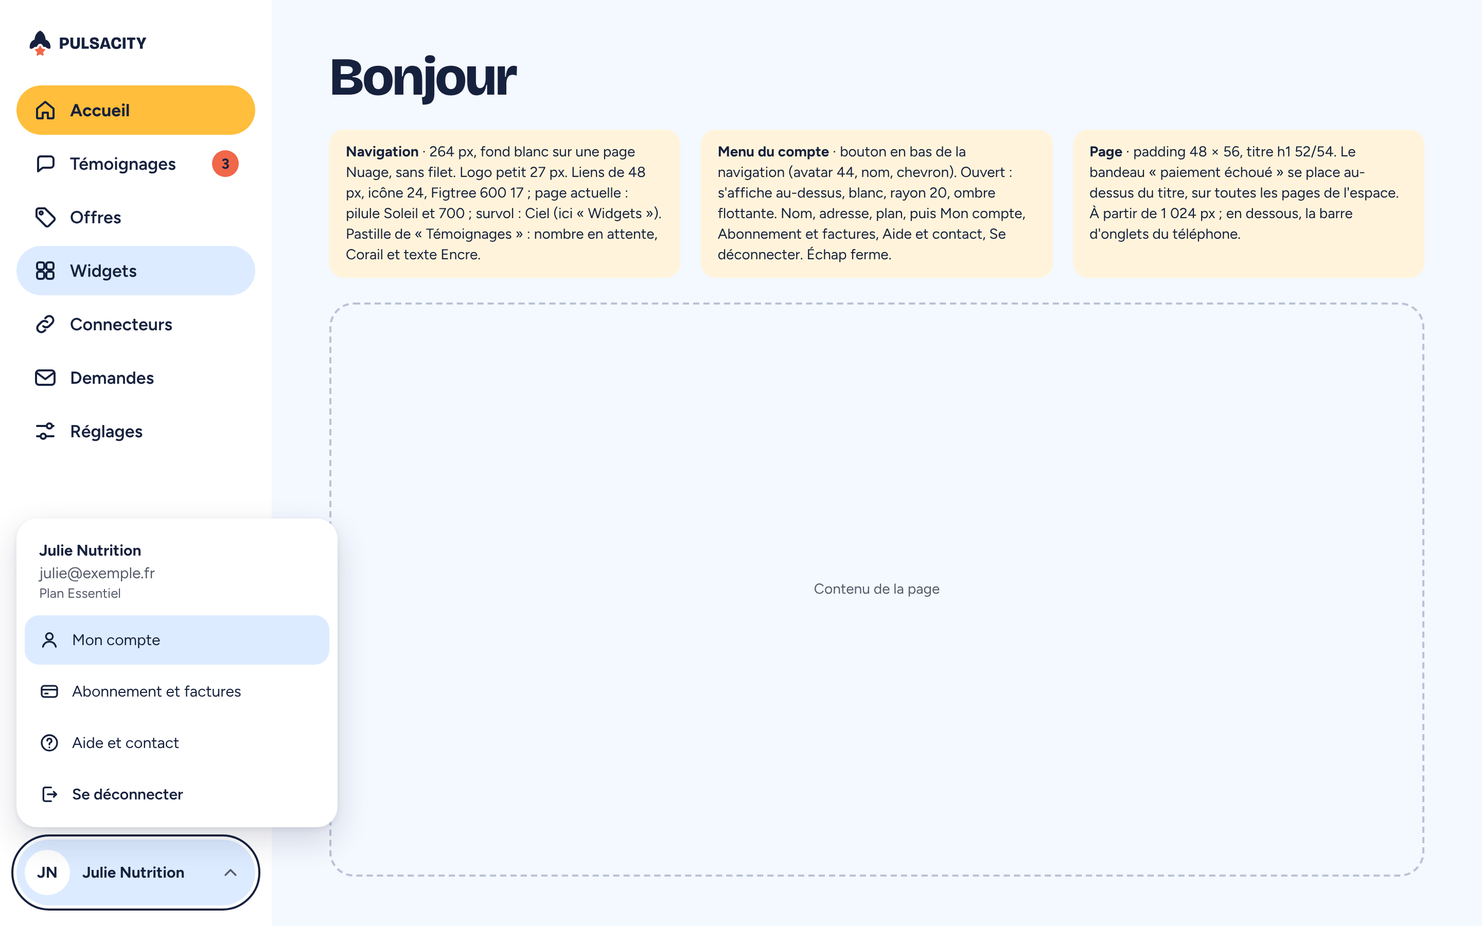
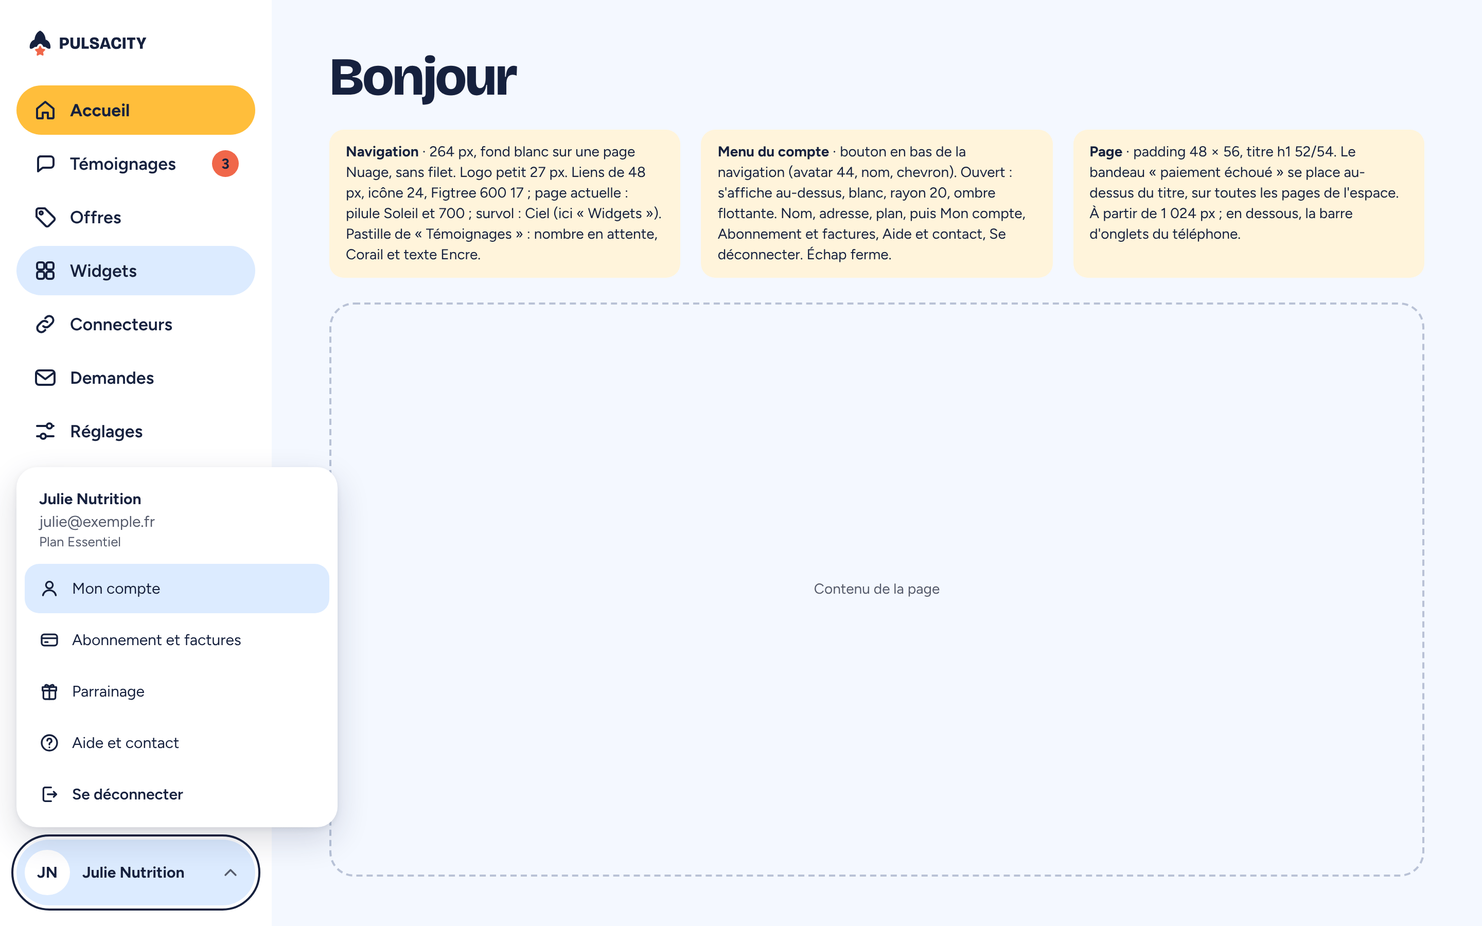
Store the 3.3 mockups and the charter they update
The ZIP of prompt 3.3 (screens to create) goes into docs-internes/design-v2:
its PNG beside those of 3.2, its charter replacing charte.md (gauge,
foldable question, tool card, monogram, added badges, numbered steps, and
the icons gift, pause, external, file, monitor and phone), its index
appended to INDEX.md. The two shell plates it changes keep their names.

Claude-Session: https://claude.ai/code/session_01JVU7uWR1rbwWpp9uAc98oP

Changed region(s): [[0.0, 0.5289, 0.25, 0.7778]]

diff --git a/docs-internes/design-v2/maquettes/INDEX.md b/docs-internes/design-v2/maquettes/INDEX.md
@@ -74,3 +74,158 @@ Modifiés par rapport aux maquettes de la direction B (3.1), mêmes écrans, pou
 - Page de collecte : « Julie Nutrition lira chaque mot. Une note et quelques mots suffisent. » (au lieu de « Comptez moins d'une minute. »).
 - Mur : note d'exemple 4,7/5 ; « Exemple, avis fictifs ».
 - E-mail de demande : bouton « Donner mon avis » (au lieu de « Donner mon avis (1 minute) ») ; relance : objet « Camille, un mot sur Programme 30 jours ? » et texte sans « une minute » (voir `charte-v2.md`, E-mails).
+
+
+## Écrans à créer — prompt 3.3 (rangés au lot 4.3, 14 octobre 2026)
+
+> Rangement dans le dépôt : le ZIP du prompt 3.3 (`PULSACITY-v2-ecrans-3-3.zip`) est rangé tel quel. Ses PNG sont dans ce dossier, à côté de ceux de 3.2 ; sa `charte-v2.md`, mise à jour en 3.3 (composants et icônes ajoutés), remplace `../charte.md`. Les deux planches de la coque qu'il modifie gardent leur nom et remplacent celles de 3.2. Les lots 4.3 (Réglages, Mon compte), 4.4 (Aide et contact), 4.5 (Abonnement et factures), 4.12 (parrainage) et les lots du catalogue s'en servent.
+
+Tous les fichiers listés ici sont dans `maquettes/` : PNG à l'échelle 2x, une planche ou un état par fichier, nommés `v2-<famille>-<écran>-<desktop ou mobile>-<numéro>-<état>.png`. Chaque écran est dessiné à 1440 px et à 360 px, avec la charte v2, dans la coque de l'espace (ou celle du site pour Aide et contact, les pages publiques et les guides). Les valeurs sont dans `charte-v2.md` (mise à jour : composants et icônes ajoutés en 3.3). Canvas « PULSACITY v2 », pages « Réglages », « Mon compte », « Abonnement et factures », « Aide et contact », « Connecteurs », « Parrainage ».
+
+
+### 8.1 — Réglages (`/app/reglages`)
+| Fichier | Planche · état |
+| --- | --- |
+| v2-espace-reglages-desktop-01-repos.png | Réglages · 1440 · repos |
+| v2-espace-reglages-mobile-01-repos.png | Réglages · 360 · repos |
+| v2-espace-reglages-desktop-02-erreurs.png | Réglages · 1440 · erreurs |
+| v2-espace-reglages-mobile-02-erreurs.png | Réglages · 360 · erreurs |
+| v2-espace-reglages-desktop-03-enregistre.png | Réglages · 1440 · enregistre |
+| v2-espace-reglages-mobile-03-enregistre.png | Réglages · 360 · enregistre |
+| v2-espace-reglages-desktop-04-apercu-email.png | Réglages · 1440 · aperçu de l'e-mail |
+| v2-espace-reglages-mobile-04-apercu-email.png | Réglages · 360 · aperçu de l'e-mail |
+
+### 8.2 — Mon compte (`/app/compte`) et « Votre espace est supprimé »
+| Fichier | Planche · état |
+| --- | --- |
+| v2-espace-compte-desktop-01-repos.png | Mon compte · 1440 · repos |
+| v2-espace-compte-mobile-01-repos.png | Mon compte · 360 · repos |
+| v2-espace-compte-desktop-02-nouvelle-adresse-erreur.png | Mon compte · 1440 · nouvelle-adresse-erreur |
+| v2-espace-compte-mobile-02-nouvelle-adresse-erreur.png | Mon compte · 360 · nouvelle-adresse-erreur |
+| v2-espace-compte-desktop-03-lien-envoye.png | Mon compte · 1440 · lien-envoye |
+| v2-espace-compte-mobile-03-lien-envoye.png | Mon compte · 360 · lien-envoye |
+| v2-espace-compte-desktop-04-export-en-preparation.png | Mon compte · 1440 · export-en-preparation |
+| v2-espace-compte-mobile-04-export-en-preparation.png | Mon compte · 360 · export-en-preparation |
+| v2-espace-compte-desktop-05-export-pret.png | Mon compte · 1440 · export-pret |
+| v2-espace-compte-mobile-05-export-pret.png | Mon compte · 360 · export-pret |
+| v2-espace-compte-desktop-06-export-echec.png | Mon compte · 1440 · export-echec |
+| v2-espace-compte-mobile-06-export-echec.png | Mon compte · 360 · export-echec |
+| v2-espace-compte-desktop-07-suppression-confirmation.png | Mon compte · 1440 · suppression |
+| v2-espace-compte-mobile-07-suppression-confirmation.png | Mon compte · 360 · suppression |
+| v2-site-espace-supprime-desktop-01-repos.png | Votre espace est supprimé · 1440 |
+| v2-site-espace-supprime-mobile-01-repos.png | Votre espace est supprimé · 360 |
+
+### 8.3 — Abonnement et factures (`/app/facturation`), bandeau dans l'espace, widgets en pause
+| Fichier | Planche · état |
+| --- | --- |
+| v2-espace-abonnement-desktop-01-gratuit-consommation.png | Abonnement · 1440 · gratuit-consommation |
+| v2-espace-abonnement-mobile-01-gratuit-consommation.png | Abonnement · 360 · gratuit-consommation |
+| v2-espace-abonnement-desktop-02-essentiel-mensuel-prix-de-lancement.png | Abonnement · 1440 · essentiel-mensuel-prix-de-lancement |
+| v2-espace-abonnement-mobile-02-essentiel-mensuel-prix-de-lancement.png | Abonnement · 360 · essentiel-mensuel-prix-de-lancement |
+| v2-espace-abonnement-desktop-03-pro-annuel.png | Abonnement · 1440 · pro-annuel |
+| v2-espace-abonnement-mobile-03-pro-annuel.png | Abonnement · 360 · pro-annuel |
+| v2-espace-abonnement-desktop-04-beta-testeur.png | Abonnement · 1440 · beta-testeur |
+| v2-espace-abonnement-mobile-04-beta-testeur.png | Abonnement · 360 · beta-testeur |
+| v2-espace-abonnement-desktop-05-paiement-reussi.png | Abonnement · 1440 · paiement-reussi |
+| v2-espace-abonnement-mobile-05-paiement-reussi.png | Abonnement · 360 · paiement-reussi |
+| v2-espace-abonnement-desktop-06-paiement-en-cours.png | Abonnement · 1440 · paiement-en-cours |
+| v2-espace-abonnement-mobile-06-paiement-en-cours.png | Abonnement · 360 · paiement-en-cours |
+| v2-espace-abonnement-desktop-07-paiement-abandonne.png | Abonnement · 1440 · paiement-abandonne |
+| v2-espace-abonnement-mobile-07-paiement-abandonne.png | Abonnement · 360 · paiement-abandonne |
+| v2-espace-abonnement-desktop-08-paiement-echoue.png | Abonnement · 1440 · paiement-echoue |
+| v2-espace-abonnement-mobile-08-paiement-echoue.png | Abonnement · 360 · paiement-echoue |
+| v2-espace-abonnement-desktop-09-resiliation-programmee.png | Abonnement · 1440 · resiliation-programmee |
+| v2-espace-abonnement-mobile-09-resiliation-programmee.png | Abonnement · 360 · resiliation-programmee |
+| v2-espace-abonnement-desktop-10-plan-inferieur-programme.png | Abonnement · 1440 · plan-inferieur-programme |
+| v2-espace-abonnement-mobile-10-plan-inferieur-programme.png | Abonnement · 360 · plan-inferieur-programme |
+| v2-espace-abonnement-desktop-11-retour-au-gratuit.png | Abonnement · 1440 · retour-au-gratuit |
+| v2-espace-abonnement-mobile-11-retour-au-gratuit.png | Abonnement · 360 · retour-au-gratuit |
+| v2-espace-accueil-desktop-01-bandeau-paiement-echoue.png | Accueil · 1440 · bandeau paiement échoué |
+| v2-espace-accueil-mobile-01-bandeau-paiement-echoue.png | Accueil · 360 · bandeau paiement échoué |
+| v2-espace-widgets-desktop-01-retour-au-gratuit.png | Widgets · 1440 · retour au Gratuit |
+| v2-espace-widgets-mobile-01-retour-au-gratuit.png | Widgets · 360 · retour au Gratuit |
+
+### 8.4 — Aide et contact (`/aide`)
+| Fichier | Planche · état |
+| --- | --- |
+| v2-site-aide-desktop-01-repos.png | Aide et contact · 1440 · repos |
+| v2-site-aide-mobile-01-repos.png | Aide et contact · 360 · repos |
+| v2-site-aide-desktop-02-connecte.png | Aide et contact · 1440 · connecte |
+| v2-site-aide-mobile-02-connecte.png | Aide et contact · 360 · connecte |
+| v2-site-aide-desktop-03-erreurs.png | Aide et contact · 1440 · erreurs |
+| v2-site-aide-mobile-03-erreurs.png | Aide et contact · 360 · erreurs |
+| v2-site-aide-desktop-04-envoye.png | Aide et contact · 1440 · envoye |
+| v2-site-aide-mobile-04-envoye.png | Aide et contact · 360 · envoye |
+| v2-site-aide-desktop-05-trop-d-envois.png | Aide et contact · 1440 · trop-d-envois |
+| v2-site-aide-mobile-05-trop-d-envois.png | Aide et contact · 360 · trop-d-envois |
+
+### 8.5 — Catalogue des connecteurs
+| Fichier | Planche · état |
+| --- | --- |
+| v2-site-integrations-desktop-01-catalogue.png | Intégrations · 1440 · catalogue |
+| v2-site-integrations-mobile-01-catalogue.png | Intégrations · 360 · catalogue |
+| v2-site-integrations-desktop-02-filtre-famille.png | Intégrations · 1440 · filtre par famille |
+| v2-site-integrations-mobile-02-filtre-famille.png | Intégrations · 360 · filtre par famille |
+| v2-site-integrations-desktop-03-dites-nous-quel-outil.png | Intégrations · 1440 · Dites-nous quel outil |
+| v2-site-integrations-mobile-03-dites-nous-quel-outil.png | Intégrations · 360 · Dites-nous quel outil |
+| v2-espace-connecteurs-desktop-01-catalogue.png | Connecteurs · 1440 · catalogue |
+| v2-espace-connecteurs-mobile-01-catalogue.png | Connecteurs · 360 · catalogue |
+| v2-espace-connecteurs-desktop-02-dites-nous-quel-outil.png | Connecteurs · 1440 · Dites-nous quel outil |
+| v2-espace-connecteurs-mobile-02-dites-nous-quel-outil.png | Connecteurs · 360 · Dites-nous quel outil |
+| v2-site-integration-bientot-desktop-01-calendly.png | Calendly (Bientôt) · 1440 |
+| v2-site-integration-bientot-mobile-01-calendly.png | Calendly (Bientôt) · 360 |
+| v2-site-integration-bientot-desktop-02-me-prevenir-etats.png | Calendly · 1440 · Me prévenir |
+| v2-site-integration-bientot-mobile-02-me-prevenir-etats.png | Calendly · 360 · Me prévenir |
+| v2-site-connecteur-universel-desktop-01-repos.png | Connecteur universel (public) · 1440 |
+| v2-site-connecteur-universel-mobile-01-repos.png | Connecteur universel (public) · 360 |
+| v2-espace-connecteur-universel-desktop-01-en-attente.png | Connecteur universel (espace) · 1440 · en-attente |
+| v2-espace-connecteur-universel-mobile-01-en-attente.png | Connecteur universel (espace) · 360 · en-attente |
+| v2-espace-connecteur-universel-desktop-02-connecte-offres-a-associer.png | Connecteur universel (espace) · 1440 · connecte-offres-a-associer |
+| v2-espace-connecteur-universel-mobile-02-connecte-offres-a-associer.png | Connecteur universel (espace) · 360 · connecte-offres-a-associer |
+| v2-espace-connecteur-universel-desktop-03-probleme.png | Connecteur universel (espace) · 1440 · probleme |
+| v2-espace-connecteur-universel-mobile-03-probleme.png | Connecteur universel (espace) · 360 · probleme |
+| v2-site-guide-zapier-desktop-01-repos.png | Guide zapier · 1440 |
+| v2-site-guide-zapier-mobile-01-repos.png | Guide zapier · 360 |
+| v2-site-guide-make-desktop-01-repos.png | Guide make · 1440 |
+| v2-site-guide-make-mobile-01-repos.png | Guide make · 360 |
+| v2-site-guide-n8n-desktop-01-repos.png | Guide n8n · 1440 |
+| v2-site-guide-n8n-mobile-01-repos.png | Guide n8n · 360 |
+| v2-site-guide-podia-desktop-01-repos.png | Guide podia · 1440 |
+| v2-site-guide-podia-mobile-01-repos.png | Guide podia · 360 |
+| v2-site-compatible-avec-votre-site-desktop-01-liste.png | Compatible avec votre site · 1440 |
+| v2-site-compatible-avec-votre-site-mobile-01-liste.png | Compatible avec votre site · 360 |
+
+### Parrainage (`/app/parrainage`)
+| Fichier | Planche · état |
+| --- | --- |
+| v2-espace-parrainage-desktop-01-avec-filleuls.png | Parrainage · 1440 · avec-filleuls |
+| v2-espace-parrainage-mobile-01-avec-filleuls.png | Parrainage · 360 · avec-filleuls |
+| v2-espace-parrainage-desktop-02-vide.png | Parrainage · 1440 · vide |
+| v2-espace-parrainage-mobile-02-vide.png | Parrainage · 360 · vide |
+| v2-espace-parrainage-desktop-03-lien-copie.png | Parrainage · 1440 · lien-copie |
+| v2-espace-parrainage-mobile-03-lien-copie.png | Parrainage · 360 · lien-copie |
+
+### Modifiés dans ce lot, mêmes noms (planches de 3.2)
+| Fichier | Changement |
+| --- | --- |
+| v2-espace-coque-desktop-01-menu-compte-ouvert.png | « Parrainage » ajouté au menu du compte. |
+| v2-espace-coque-mobile-02-page-plus.png | « Parrainage » ajouté à « Votre compte ». |
+
+### Choix de Design faits dans ce lot (à valider)
+- **Mon compte** : une page à part, `/app/compte`. Réglages parle de l'espace ; Mon compte, de la personne.
+- **Adresse de la page de collecte** : modifiable, avec l'avertissement « l'ancienne adresse cesse de marcher » et la proposition d'une adresse libre si elle est prise.
+- **Notifications** : un interrupteur « Recevoir l'e-mail « Nouveau témoignage » », activé par défaut.
+- **Contrepartie** : la case affiche la mention « Certains clients ont reçu une contrepartie pour leur avis. » sous les widgets et sur « À propos de ces avis ».
+- **Paiement et factures** : le portail Stripe seul, sans liste de factures dans la page.
+- **Changer de plan** : trois colonnes compactes avec la ligne du prix de lancement (place réservée), le plan actuel marqué « Votre plan ». Règles écrites sous les colonnes (supérieur au prorata, inférieur à la fin de la période).
+- **Retour au Gratuit** : le widget le plus ancien reste affiché ; « Afficher celui-ci à la place » pour en choisir un autre. Les widgets en pause gardent leur code et ne laissent aucun vide.
+- **Catalogue** : un filtre par famille (pastilles), les noms seuls avec un monogramme, sans logo de marque. Podia, Zapier, Make et n8n restent « Bientôt » comme connecteurs, avec « Déjà possible avec le connecteur universel : voir le guide ».
+- **Compatible avec votre site** : une section de `/integrations` (`#compatible`), avec quatre statuts : Oui, Selon la formule, Pas encore testé, Non.
+- **Connecteur universel** : même page que Systeme.io (voyant, 3 étapes, offres à associer, événements) ; une vente sans adresse e-mail est « gardée de côté », à rejouer.
+- **Guide Make** : il passe par l'application PULSACITY privée pour Make (connecteurs.md, vague 1), d'où le bouton « Ajouter PULSACITY à Make » à l'étape 2 du connecteur universel.
+- **Parrainage** : page `/app/parrainage`, lien `pulsacity.com/p/<espace>` (format à confirmer), ouverte depuis le menu du compte, « Plus » et Abonnement et factures. Le mois offert : passage à Essentiel pendant un mois au plan Gratuit, prélèvement décalé d'un mois si l'on est déjà abonné (règle à confirmer).
+
+### Textes à surveiller
+- Guide Zapier : le nom de l'application « Webhooks by Zapier » est cité tel qu'il s'affiche dans Zapier ; c'est le seul endroit où le mot apparaît. Les guides citent aussi les libellés des outils (« URL », « HTTP Request », « Send Body », « Run once »).
+- Les messages « Patientez quelques minutes, puis réessayez » (trop d'envois) sont repris de la v1 : ce ne sont pas des durées d'installation.
+- « Nous vous répondons sous deux jours ouvrés » vient de l'inventaire (8.4).

diff --git a/docs-internes/design-v2/charte.md b/docs-internes/design-v2/charte.md
@@ -154,6 +154,13 @@ Aucun filet entre les sections, ni entre les lignes d'une liste ou d'un tableau,
 **Chargement de marque** (ChargementMarque) — seulement à l'ouverture de l'espace et si l'attente dépasse 1 s : symbole normal 48 centré, « Ouverture de votre espace… » 17/26 600, « Cela prend quelques secondes la première fois. » 15/22 Gris, fond Nuage, role="status". Disparaît sans animation.
 **Colonnes de prix** (Tarifs et accueil) — titre « Tarifs », dessous : « Prix finaux : rien ne s'ajoute au paiement. » Bascule Mensuel / Annuel + « Annuel : 2 mois offerts ». Trois colonnes de même structure, rangée par rangée : « Recommandé » (15/20 700, 20 px réservés partout), nom (h2), prix en chiffre 60/60 + « par mois » / « par an » / « pour toujours » 15 Gris, ligne de lancement 15/22 Gris sur 44 px réservés (vide sous Gratuit), phrase 17/26, bouton dans une zone de 56, liste à coches Pousse 20. Essentiel : fond Ciel, bouton principal « Choisir Essentiel ». Gratuit et Pro : fond Blanc, bouton secondaire (« Créer mon espace gratuit », « Choisir Pro »). radius-panel, padding 32 28. Prix : Gratuit 0 € ; Essentiel 9,99 € par mois ou 99 € par an ; Pro 19,99 € par mois ou 199 € par an. Ligne de lancement : « Prix de lancement, gardé à vie, pour les 100 premiers abonnés. Ensuite, 14,99 € par mois. » (Pro : 24,99 € par mois ; Annuel : « Ensuite, 149 € par an. » et « Ensuite, 249 € par an. »). Ni prix barré, ni compteur, ni « TVA comprise », ni « HT ». Téléphone : colonnes empilées, liste avant le bouton, pas de place réservée.
 **Navigation** — Site, ordinateur : en-tête 88, fond Blanc, logo horizontal 32 (lien « PULSACITY, accueil »), liens Intégrations · Tarifs · Guides · Se connecter (28 d'écart), puis « Créer mon espace gratuit » secondaire ; position sticky, shadow-float après 8 px de défilement. Site, téléphone : en-tête 64, logo petit 24, bouton 44 « Ouvrir le menu » / « Fermer le menu » (aria-expanded) ; menu ouvert : panneau Blanc sous l'en-tête, radius 0 0 24 24, padding 8 20 24, lignes de 56 (radius-field, chevron 20 Gris, page actuelle sur Ciel 700), puis « Créer mon espace gratuit » principal pleine largeur ; voile sur la page, défilement bloqué. Pied de page : fond Encre, padding 56 80 48 (40 20 32 au téléphone), logo sombre 32, liens Mentions légales · CGU · CGV · Confidentialité · Cookies · Contact en Blanc 15/22 soulignés (zone de 44 ; grille de 2 colonnes au téléphone), « © 2026 PULSACITY ». Espace, ordinateur : colonne 264, fond Blanc sur page Nuage, padding 28 16 20, logo petit 27, liens de 48, padding 0 16, radius-full, icône 24 à 12 px, Figtree 600 17 ; page actuelle : fond Soleil, 700, aria-current="page" ; survol : Ciel. Ordre : Accueil, Témoignages (+ pastille de comptage), Offres, Widgets, Connecteurs, Demandes, Réglages. En bas : bouton du compte (64 de haut, radius-full, fond Nuage ; ouvert : Ciel), avatar 44, nom 700 15, chevron. Menu du compte : au-dessus du bouton, 296 de large, nom 15 700, adresse 15 Gris, « Plan Essentiel » 13 Gris, puis Mon compte · Abonnement et factures · Aide et contact · Se déconnecter (icônes user, card, help, logout). Espace, téléphone : en-tête 64 fond Blanc, logo petit 24, avatar 44 « Votre compte » (mène à « Plus ») ; barre d'onglets fixe 84 (padding 4 8 24), fond Blanc, shadow-tab-bar, 4 onglets de 56 : Accueil, Témoignages, Demandes, Plus ; icône 24 dans une pilule 56 × 32, libellé 13/18 ; actuel : pilule Soleil, Encre 700 ; autres : Gris 600. Page « Plus » : titre h1, intertitres « Votre espace » et « Votre compte » 15/22 700 Gris, groupes sur cartes Blanc radius-card padding 8, lignes de 56 (icône 24, chevron 20 Gris) ; Votre espace : Offres, Widgets, Connecteurs, Réglages ; Votre compte : avatar 44 + nom + adresse + plan, puis Mon compte, Abonnement et factures, Aide et contact ; « Se déconnecter » secondaire pleine largeur.
+**Jauge de consommation** (plan Gratuit) — libellé 15/22 700 à gauche, « 12 sur 15 » à droite (chiffre 17 700, tabular-nums), barre de 10 px radius-full sur Ciel, remplissage Encre ; à la limite ou au-delà : remplissage Attente et « Limite atteinte » 14/20 Attente 700 (ou la règle qui s'applique : « Le widget en montre 15… »). role="progressbar", aria-valuenow, aria-valuemax.
+**Question dépliable** (Aide) — bouton pleine largeur, fond Blanc, radius-card, 56 de haut au moins, padding 12 24 (12 16 au téléphone), question 17/26 700, chevron 20 à droite (retourné quand ouvert), aria-expanded ; réponse 17/26 dessous, 68ch. Une seule ouverte par défaut. Lien de guide sous chaque thème : icône file 20 + texte discret souligné.
+**Carte d'outil** (Intégrations) — fond Blanc, radius-card, padding 20 ; monogramme 44 (initiales Bricolage sur Ciel, radius-field : aucun logo de marque dans le catalogue), nom en lien 17 700 + chevron, badge « Disponible » ou « Bientôt », phrase 15/22, puis 14/20 Gris « En attendant : avec Zapier ou Make » (Bientôt) ou « Déjà possible avec le connecteur universel : voir le guide » (outils servis par un guide). Grille de 4 colonnes, 14 d'écart ; 1 colonne au téléphone. Dans l'espace : même contenu en lignes, action à droite (« Gérer », « Connecter », « Me prévenir », ou « Nous vous préviendrons par e-mail » en Pousse quand on est inscrit).
+**Monogramme** — carré radius-field, fond Ciel, une ou deux initiales en Bricolage 800 (38 % du côté). Remplace les logos d'outils tiers partout, sauf sur la page publique de l'outil si sa marque le permet.
+**Badges ajoutés** — Affiché (Pousse, coche cerclée), En pause (Gris sur Gris clair, icône pause), Inscrit (Encre sur Ciel), Abonné (Pousse), Bêta-testeur et Prix de lancement (Encre sur Ciel), Votre plan (Encre sur Soleil, sans icône), compatibilité : Oui (Pousse), Selon la formule (Encre sur Ciel), Pas encore testé (Gris sur Gris clair), Non (Gris sur Gris clair, icône annulé).
+**Étapes numérotées** (vraie séquence : connexion, guides, parrainage) — pastille 36 Soleil, chiffre Bricolage 18, titre h3, texte 16/24 ou 17/26, 28 à 32 d'écart.
+**Menu du compte et page « Plus »** — ajout de « Parrainage » (icône gift) entre « Abonnement et factures » et « Aide et contact ».
 **Icônes** — voir la section Icônes.
 
 ## Widget
@@ -184,7 +191,7 @@ Aucun filet entre les sections, ni entre les lignes d'une liste ou d'un tableau,
 - **Mode sombre des messageries** : pas de fond imposé hors de la carte ; le symbole des e-mails reste lisible sur fond sombre grâce à son étoile Corail et au nom en texte.
 
 ## Icônes
-Trait 2 px, grille 24 (zone utile 20, marge de 2), extrémités et angles arrondis (stroke-linecap et stroke-linejoin: round), coins de rayon 2 à 3, currentColor, aucun remplissage. Tailles : 16 (badges), 20 (boutons, champs, menus), 24 (navigation, bandeaux, onglets). Seule icône pleine : l'étoile de note (Soleil + contour Encre 1,3). Couleurs : Encre (actif), Gris (inactif), Blanc (sur Encre). Une icône seule a toujours un aria-label ; sinon aria-hidden="true". Jamais d'émoji en guise d'icône. Le symbole du logo n'est pas une icône. Jeu complet (mêmes noms que la v1, tracés v2 en annexe) : alert, valid, clock, cancelled, close, replay, photo, email, copy, connection, share, home, quote, tag, grid, mail, sliders, more, user, card, help, logout, chevronDown, chevronRight, chevronLeft, bookmark, search, plus, info, hidden, upload, download, wall, carousel, badge, menu, bag, check.
+Trait 2 px, grille 24 (zone utile 20, marge de 2), extrémités et angles arrondis (stroke-linecap et stroke-linejoin: round), coins de rayon 2 à 3, currentColor, aucun remplissage. Tailles : 16 (badges), 20 (boutons, champs, menus), 24 (navigation, bandeaux, onglets). Seule icône pleine : l'étoile de note (Soleil + contour Encre 1,3). Couleurs : Encre (actif), Gris (inactif), Blanc (sur Encre). Une icône seule a toujours un aria-label ; sinon aria-hidden="true". Jamais d'émoji en guise d'icône. Le symbole du logo n'est pas une icône. Jeu complet (mêmes noms que la v1, tracés v2 en annexe) : alert, valid, clock, cancelled, close, replay, photo, email, copy, connection, share, home, quote, tag, grid, mail, sliders, more, user, card, help, logout, chevronDown, chevronRight, chevronLeft, bookmark, search, plus, info, hidden, upload, download, wall, carousel, badge, menu, bag, check, et depuis 3.3 : gift (parrainage), pause (widget en pause), external (lien vers Stripe), file (guide), monitor et phone (appareils connectés).
 
 ## Captures et illustrations
 - Captures : de vrais écrans de PULSACITY, à 100 % ou 50 %, jamais redessinés « en mieux » ; recadrés sur ce qui compte, posés sur un aplat Soleil ou Ciel, radius 20, bord qui déborde.
@@ -272,5 +279,11 @@ export const ICON_PATHS = {
   menu: ["M4 7h16", "M4 12h16", "M4 17h16"],
   bag: ["M5.6 8h12.8a1 1 0 0 1 1 1.1l-.9 10a1 1 0 0 1-1 .9H6.5a1 1 0 0 1-1-.9l-.9-10a1 1 0 0 1 1-1.1z", "M9 10V7a3 3 0 0 1 6 0v3"],
   check: ["M5 12.5l4.5 4.5L19 7.5"],
+  gift: ["M5 11h14v8a2 2 0 0 1-2 2H7a2 2 0 0 1-2-2z", "M4 7h16v4H4z", "M12 7v14", "M12 7C10.5 4 7 3.6 7 5.6 7 7 9.5 7 12 7z", "M12 7c1.5-3 5-3.4 5-1.4 0 1.4-2.5 1.4-5 1.4z"],
+  pause: ["M9 6v12", "M15 6v12"],
+  external: ["M14 5h5v5", "M19 5l-8 8", "M17 14v4a2 2 0 0 1-2 2H6a2 2 0 0 1-2-2V9a2 2 0 0 1 2-2h4"],
+  file: ["M7 3h7l5 5v11a2 2 0 0 1-2 2H7a2 2 0 0 1-2-2V5a2 2 0 0 1 2-2z", "M14 3v5h5"],
+  monitor: ["M5 5h14a2 2 0 0 1 2 2v8a2 2 0 0 1-2 2H5a2 2 0 0 1-2-2V7a2 2 0 0 1 2-2z", "M9 21h6", "M12 17v4"],
+  phone: ["M8 3h8a2 2 0 0 1 2 2v14a2 2 0 0 1-2 2H8a2 2 0 0 1-2-2V5a2 2 0 0 1 2-2z", "M11 18h2"],
 } as const;
 ```
